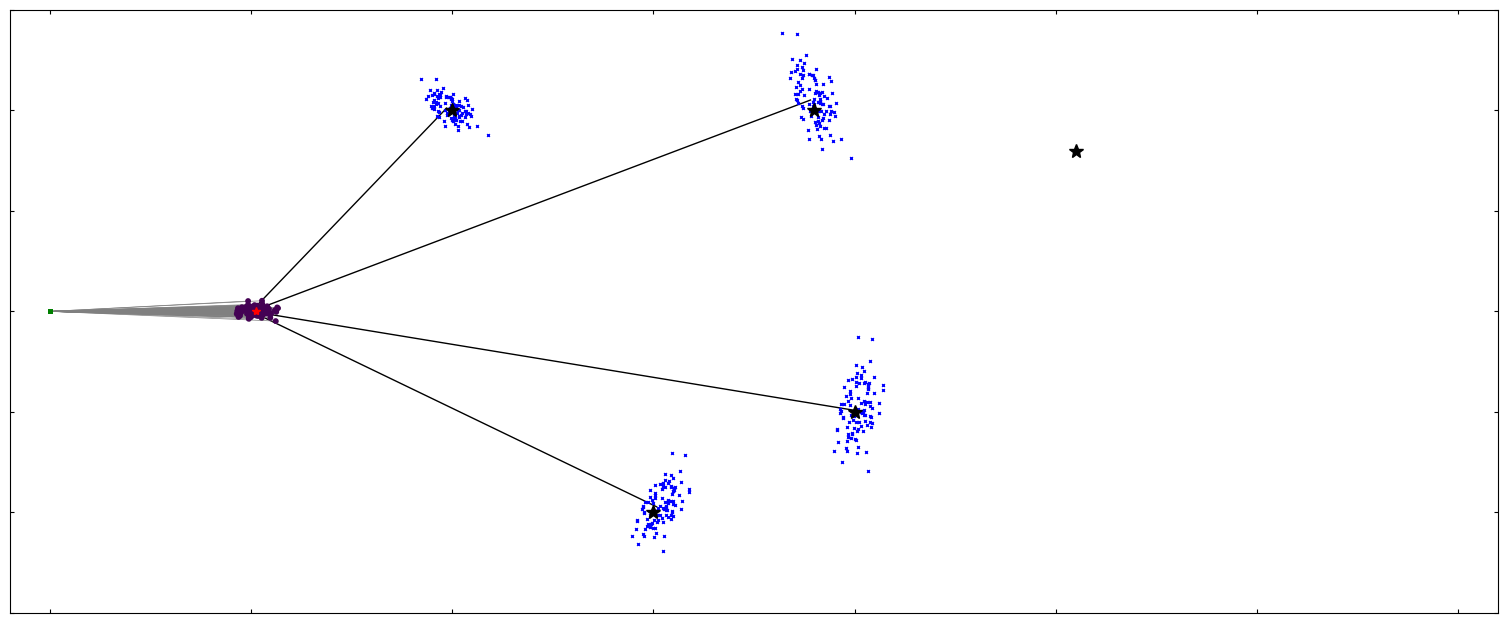
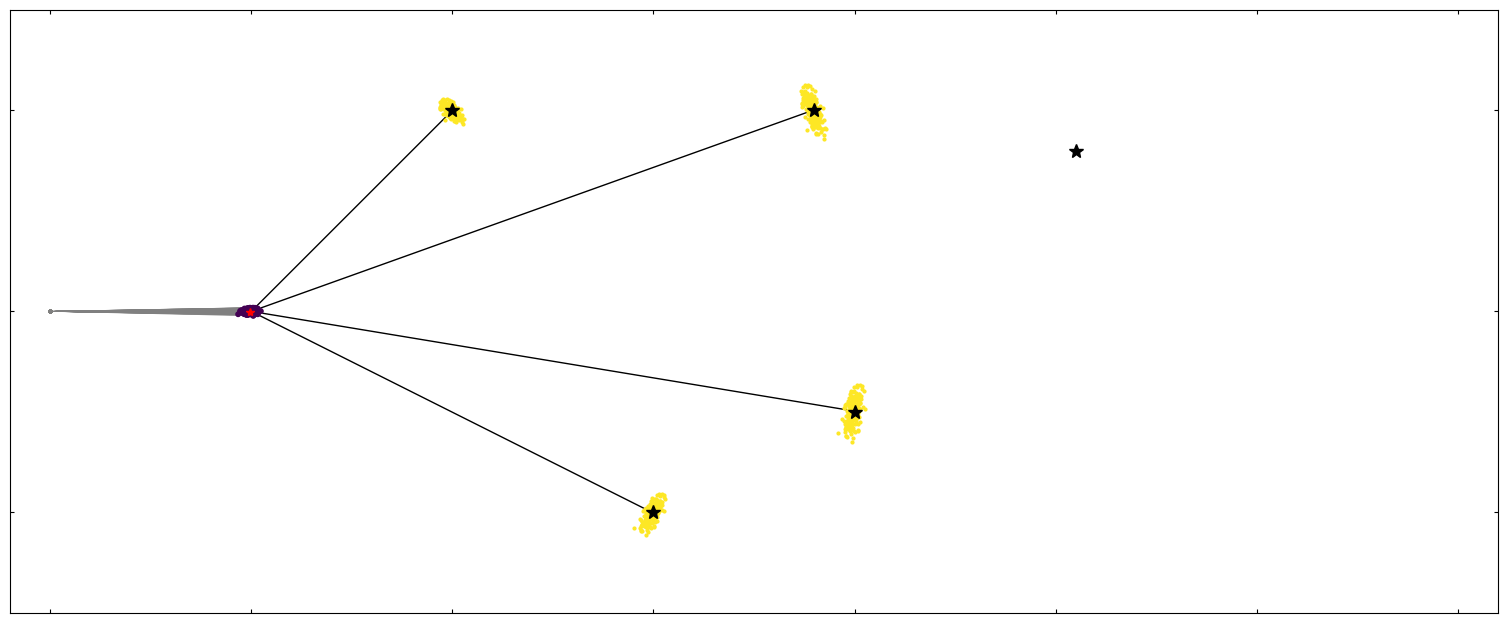
More stupid issues to fix

diff --git a/SLAM/FastSLAM1/fast_slam1_1_self.py b/SLAM/FastSLAM1/fast_slam1_1_self.py
@@ -18,13 +18,14 @@ from utils.angle import angle_mod
 
 # Fast SLAM covariance
 Q = np.diag([0.08, np.deg2rad(10.0)]) ** 2 #0 may cause issues with cholesky decomposition
-R = np.diag([0.2, np.deg2rad(10.0)]) ** 2 #Determine variance in input for different particles
-R = np.diag([0.05, np.deg2rad(2)]) ** 2 #Determine variance in input for different particles
+Q = np.diag([0.08, np.deg2rad(1.0)]) ** 2 #0 may cause issues with cholesky decomposition
+R = np.diag([0.02, np.deg2rad(1.0)]) ** 2 #Determine variance in input for different particles
+# R = np.diag([0.05, np.deg2rad(2)]) ** 2 #Determine variance in input for different particles
 
 
 
 #  Simulation parameter
-Q_SIM = np.diag([0.01, np.deg2rad(1.0)]) ** 2 #Need to have non-zero values for cholesky decomposition
+Q_SIM = np.diag([0.001, np.deg2rad(00.10)]) ** 2 #Need to have non-zero values for cholesky decomposition
 R_SIM = np.diag([0.01, np.deg2rad(1.0)]) ** 2 #Determine a variance in input that is used for all particles
 OFFSET_YAW_RATE_NOISE = 0.0
 
@@ -43,7 +44,7 @@ MAX_RANGE = 20.0  # maximum observation range
 M_DIST_TH = 2.0  # Threshold of Mahalanobis distance for data association.
 STATE_SIZE = 3  # State size [x,y,yaw]
 LM_SIZE = 2  # LM state size [x,y]
-N_PARTICLE = 100  # number of particle
+N_PARTICLE = 200  # number of particle
 NTH = N_PARTICLE / 1.2  # Number of particle for re-sampling
 
 MAX_ANGLE_RANGE = math.pi / 2.0  # maximum angle observation range
@@ -76,67 +77,69 @@ def fast_slam1(particles, u, z):
 
    
     
-    #First plot t=0 and will also plot resampled partilces
-    for i in range(N_PARTICLE):
-                plt.plot(particles[i].x, particles[i].y, ".g", markersize = 5,zorder = 5)
-    # print("Prev particles x", prev_particles[0].x)
-    # print("Prev particles y", prev_particles[0].y)
-    plt.xlim([-0.2, 7.2])
-    plt.ylim([-1.5, 1.5])
-    plt.gca().set_aspect('equal', adjustable='box')
-    plt.tick_params(axis='both', which='both', labelbottom=False, labelleft=False, direction='in', length=3)
-    plt.tick_params(axis='x', which='both', direction='in', length=3, top=True)
-    plt.tick_params(axis='y', which='both', direction='in', length=3, right=True)
-    plt.show()
+    # #First plot t=0 and will also plot resampled partilces
+    # for i in range(N_PARTICLE):
+    #             plt.plot(particles[i].x, particles[i].y, ".g", markersize = 5,zorder = 5)
+    # # print("Prev particles x", prev_particles[0].x)
+    # # print("Prev particles y", prev_particles[0].y)
+    # plt.xlim([-0.2, 7.2])
+    # plt.ylim([-1.5, 1.5])
+    # plt.gca().set_aspect('equal', adjustable='box')
+    # plt.gca().xaxis.set_major_locator(plt.MultipleLocator(1.0))  # Interval of 1.0 for x-axis
+    # plt.gca().yaxis.set_major_locator(plt.MultipleLocator(1.0))  # Interval of 1.0 for y-axis
+    # plt.tick_params(axis='both', which='both', labelbottom=False, labelleft=False, direction='in', length=3)
+    # plt.tick_params(axis='x', which='both', direction='in', length=3, top=True)
+    # plt.tick_params(axis='y', which='both', direction='in', length=3, right=True)
+    # plt.show()
 
     predicted_particles = predict_particles(particles, u)
+    pred_particles = copy.deepcopy(predicted_particles)
 
     # Plot propagation lines
     for i in range(N_PARTICLE):
         plt.plot(
             [prev_particles[i].x, predicted_particles[i].x],
             [prev_particles[i].y, predicted_particles[i].y],
-            "-o",color="grey", linewidth=0.5,markersize = 2,zorder=4
+            "-o",color="grey", linewidth=0.5,markersize = 2, zorder=4
         )
         # plt.plot(predicted_particles[i].x, predicted_particles[i].y, ".k", markersize=2)  # Predicted particles
     plt.xlim([-0.2, 7.2])
     plt.ylim([-1.5, 1.5])
     plt.gca().set_aspect('equal', adjustable='box')
+    plt.gca().xaxis.set_major_locator(plt.MultipleLocator(1.0))  # Interval of 1.0 for x-axis
+    plt.gca().yaxis.set_major_locator(plt.MultipleLocator(1.0))  # Interval of 1.0 for y-axis
     plt.tick_params(axis='both', which='both', labelbottom=False, labelleft=False, direction='in', length=3)
     plt.tick_params(axis='x', which='both', direction='in', length=3, top=True)
     plt.tick_params(axis='y', which='both', direction='in', length=3, right=True)
     plt.show()
 
     updated_particles = update_with_observation(predicted_particles, z)
+    up_particles = copy.deepcopy(updated_particles)
     
     #Plot land mark partilces of each particle
-    for i in range(N_PARTICLE):
-        plt.plot(updated_particles[i].lm[:, 0], updated_particles[i].lm[:, 1], "xb", markersize = 2, zorder = 3)
-    plt.xlim([-0.2, 7.2])
-    plt.ylim([-1.5, 1.5])
-    plt.gca().set_aspect('equal', adjustable='box')
-    plt.tick_params(axis='both', which='both', labelbottom=False, labelleft=False, direction='in', length=3)
-    plt.tick_params(axis='x', which='both', direction='in', length=3, top=True)
-    plt.tick_params(axis='y', which='both', direction='in', length=3, right=True)
+    plot_landmarks_with_weights(updated_particles, overlay=True)
     plt.show()
+    
+   
 
     # Plot original particles with color intensity based on weights
-    plot_particles_with_weights(updated_particles, z, title="Original Particles Before Resampling", overlay=True)
+    plot_particles_with_weights(updated_particles, overlay=True)
     plt.xlim([-0.2, 7.2])
     plt.ylim([-1.5, 1.5])
     plt.gca().set_aspect('equal', adjustable='box')
+    plt.gca().xaxis.set_major_locator(plt.MultipleLocator(1.0))  # Interval of 1.0 for x-axis
+    plt.gca().yaxis.set_major_locator(plt.MultipleLocator(1.0))  # Interval of 1.0 for y-axis
     plt.tick_params(axis='both', which='both', labelbottom=False, labelleft=False, direction='in', length=3)
     plt.tick_params(axis='x', which='both', direction='in', length=3, top=True)
     plt.tick_params(axis='y', which='both', direction='in', length=3, right=True)
     plt.show()
     
+    resampled_particles = resampling(updated_particles)
     
 
-    resampled_particles = resampling(updated_particles)
+    return pred_particles, up_particles, resampled_particles
 
-    return predicted_particles, resampled_particles
-
-def plot_particles_with_weights(particles, gps_coordinate, title, overlay=False):
+def plot_particles_with_weights(particles, overlay=False):
     """
     Plot particles, with color intensity corresponding to the weight.
     Optionally overlay particles on an existing plot.
@@ -171,6 +174,41 @@ def plot_particles_with_weights(particles, gps_coordinate, title, overlay=False)
     if not overlay:
         plt.show()
         
+def plot_landmarks_with_weights(particles, overlay=False):
+    """
+    Plot landmarks from particles as lines, with color intensity corresponding to particle weight.
+    Optionally overlay landmarks on an existing plot.
+    
+    Args:
+        particles: List of particle objects, where each has landmarks (lm) and a weight (w).
+        overlay: If True, overlay the plot on an existing figure.
+    """
+    if not overlay:
+        plt.figure()
+
+    # Normalize weights to map to a color scale
+    weights = [particle.w for particle in particles]
+    norm_weights = np.array(weights) / max(weights)
+
+    # Iterate through particles to plot landmarks as lines
+    for i, particle in enumerate(particles):
+        lm_x = particle.lm[:, 0]  # Landmark x-coordinates
+        lm_y = particle.lm[:, 1]  # Landmark y-coordinates
+        plt.plot(lm_x, lm_y, ".", markersize = 4, label=f"Particle {i}", color=plt.cm.viridis(norm_weights[i]),  zorder=3)
+
+    # Set plot appearance
+    plt.xlim([-0.2, 7.2])
+    plt.ylim([-1.5, 1.5])
+    plt.gca().set_aspect('equal', adjustable='box')
+    plt.gca().xaxis.set_major_locator(plt.MultipleLocator(1.0))
+    plt.gca().yaxis.set_major_locator(plt.MultipleLocator(1.0))
+    plt.tick_params(axis='both', which='both', labelbottom=False, labelleft=False, direction='in', length=3)
+    plt.tick_params(axis='x', which='both', direction='in', length=3, top=True)
+    plt.tick_params(axis='y', which='both', direction='in', length=3, right=True)
+
+    if not overlay:
+        plt.show()
+        
 def plot_observation_line(x, z, ax=None, linewidth=1.0, color="k"):
     for i in range(z.shape[1]):  # Iterate over columns since z is now (3, N)
         # Extract range and angle from the observation
@@ -190,6 +228,11 @@ def plot_observation_line(x, z, ax=None, linewidth=1.0, color="k"):
     plt.xlim([-0.2, 7.2])
     plt.ylim([-1.5, 1.5])
     plt.gca().set_aspect('equal', adjustable='box')
+    plt.gca().xaxis.set_major_locator(plt.MultipleLocator(1.0))  # Interval of 1.0 for x-axis
+    plt.gca().yaxis.set_major_locator(plt.MultipleLocator(1.0))  # Interval of 1.0 for y-axis
+    plt.tick_params(axis='both', which='both', labelbottom=False, labelleft=False, direction='in', length=3)
+    plt.tick_params(axis='x', which='both', direction='in', length=3, top=True)
+    plt.tick_params(axis='y', which='both', direction='in', length=3, right=True)
     # plt.show()
 
 def normalize_weight(particles):
@@ -233,8 +276,6 @@ def predict_particles(particles, u):
         particles[i].x = px[0, 0]
         particles[i].y = px[1, 0]
         particles[i].yaw = px[2, 0]
-
-        particles[i].history.append((particles[i].x, particles[i].y, particles[i].yaw))
 
     return particles
 
@@ -380,7 +421,7 @@ def resampling(particles):
     print("Eff Threshold:", NTH)
     print(f"Effective particle number (n_eff): {n_eff}")
 
-    if n_eff < NTH:  # resampling
+    if n_eff < NTH or True:  # resampling
         print("Resampling")
         w_cum = np.cumsum(pw)
         base = np.cumsum(pw * 0.0 + 1 / N_PARTICLE) - 1 / N_PARTICLE
@@ -420,35 +461,6 @@ def calc_input(time):
 
     return u
 
-
-# def observation(x_true, xd, u, rfid):
-#     # calc true state
-#     x_true = motion_model(x_true, u)
-
-#     # add noise to range observation
-#     z = np.zeros((3, 0))
-#     for i in range(len(rfid[:, 0])):
-
-#         dx = rfid[i, 0] - x_true[0, 0]
-#         dy = rfid[i, 1] - x_true[1, 0]
-#         d = math.hypot(dx, dy)
-#         angle = pi_2_pi(math.atan2(dy, dx) - x_true[2, 0])
-#         if d <= MAX_RANGE:
-#             dn = d + np.random.randn() * Q_SIM[0, 0] ** 0.5  # add noise
-#             angle_with_noize = angle + np.random.randn() * Q_SIM[
-#                 1, 1] ** 0.5  # add noise
-#             zi = np.array([dn, pi_2_pi(angle_with_noize), i]).reshape(3, 1)
-#             z = np.hstack((z, zi))
-
-#     # add noise to input
-#     ud1 = u[0, 0] + np.random.randn() * R_SIM[0, 0] ** 0.5
-#     ud2 = u[1, 0] + np.random.randn() * R_SIM[
-#         1, 1] ** 0.5 + OFFSET_YAW_RATE_NOISE
-#     ud = np.array([ud1, ud2]).reshape(2, 1)
-
-#     xd = motion_model(xd, ud)
-
-#     return x_true, z, xd, ud
 
 def observation(x_true, xd, u, rfid):
     # Calculate the true state
@@ -551,7 +563,7 @@ def main():
     #             plt.savefig(f"SLAM/FastSLAM1/Plots/FastSLAM1_{save_fig_number}.png", bbox_inches="tight")  
     #             save_fig_number += 1  # Increment the counter for the next iteration
                 
-    hist_particles = particles
+    
 
 
     while SIM_TIME >= time:
@@ -559,14 +571,14 @@ def main():
         u = calc_input(time)
         # print(u)
         
-        hist_x_est_prev = copy.deepcopy(x_true)
+        hist_particles = copy.deepcopy(particles)
 
         x_true, z, x_dr, ud = observation(x_true, x_dr, u, rfid)
         
         plot_observation_line(x_true, z)
 
         plt.plot(rfid[:, 0], rfid[:, 1], "*k", markersize = 10, zorder = 11)
-        predicted_particles, particles = fast_slam1(particles, ud, z)
+        predicted_particles, updated_particles, particles = fast_slam1(particles, ud, z)
 
         x_est = calc_final_state(particles)
         
@@ -576,15 +588,17 @@ def main():
             save_fig_number += 1  # Increment the counter for the next iteration
             
         # Errase observation lines and landmark particle for reduced clutter
-        # plot_observation_line(x_true, z, ax=None, linewidth=2.0, color="white")
-        # for i in range(N_PARTICLE):
-        #     plt.plot(particles[i].lm[:, 0], particles[i].lm[:, 1], "x", color="white", markersize = 5, zorder = 3)
-        # plt.xlim([-0.2, 7.2])
-        # plt.ylim([-1.5, 1.5])
-        # plt.gca().set_aspect('equal', adjustable='box')
-        # plt.tick_params(axis='both', which='both', labelbottom=False, labelleft=False, direction='in', length=3)
-        # plt.tick_params(axis='x', which='both', direction='in', length=3, top=True)
-        # plt.tick_params(axis='y', which='both', direction='in', length=3, right=True)
+        plot_observation_line(x_true, z, ax=None, linewidth=2.0, color="white")
+        for i in range(N_PARTICLE):
+            plt.plot(updated_particles[i].lm[:, 0], updated_particles[i].lm[:, 1], ".", color="white", markersize = 5, zorder = 3) #Particles gets shifted when resampled
+        plt.xlim([-0.2, 7.2])
+        plt.ylim([-1.5, 1.5])
+        plt.gca().set_aspect('equal', adjustable='box')
+        plt.gca().xaxis.set_major_locator(plt.MultipleLocator(1.0))  # Interval of 1.0 for x-axis
+        plt.gca().yaxis.set_major_locator(plt.MultipleLocator(1.0))  # Interval of 1.0 for y-axis
+        plt.tick_params(axis='both', which='both', labelbottom=False, labelleft=False, direction='in', length=3)
+        plt.tick_params(axis='x', which='both', direction='in', length=3, top=True)
+        plt.tick_params(axis='y', which='both', direction='in', length=3, right=True)
 
         x_state = x_est[0: STATE_SIZE]
 

diff --git a/SLAM/FastSLAM2/Fast_slam2_self.py b/SLAM/FastSLAM2/Fast_slam2_self.py
@@ -76,12 +76,14 @@ def fast_slam2(particles, u, z):
 
     #First plot t=0 and will also plot resampled partilces
     for i in range(N_PARTICLE):
-                plt.plot(particles[i].x, particles[i].y, ".g", markersize = 5)
+                plt.plot(particles[i].x, particles[i].y, ".g", markersize = 5, zorder = 5)
     # print("Prev particles x", prev_particles[0].x)
     # print("Prev particles y", prev_particles[0].y)
     plt.xlim([-0.2, 7.2])
     plt.ylim([-1.5, 1.5])
     plt.gca().set_aspect('equal', adjustable='box')
+    plt.gca().xaxis.set_major_locator(plt.MultipleLocator(1.0))  # Interval of 1.0 for x-axis
+    plt.gca().yaxis.set_major_locator(plt.MultipleLocator(1.0))  # Interval of 1.0 for y-axis
     plt.tick_params(axis='both', which='both', labelbottom=False, labelleft=False, direction='in', length=3)
     plt.tick_params(axis='x', which='both', direction='in', length=3, top=True)
     plt.tick_params(axis='y', which='both', direction='in', length=3, right=True)
@@ -94,12 +96,14 @@ def fast_slam2(particles, u, z):
         plt.plot(
             [prev_particles[i].x, predicted_particles[i].x],
             [prev_particles[i].y, predicted_particles[i].y],
-            "-o",color="grey", linewidth=0.5,markersize = 2,zorder=1  # Blue line for propagation
+            "-o",color="grey", linewidth=0.5,markersize = 2, zorder=4  # Blue line for propagation
         )
         # plt.plot(predicted_particles[i].x, predicted_particles[i].y, ".k", markersize=2)  # Predicted particles
     plt.xlim([-0.2, 7.2])
     plt.ylim([-1.5, 1.5])
     plt.gca().set_aspect('equal', adjustable='box')
+    plt.gca().xaxis.set_major_locator(plt.MultipleLocator(1.0))  # Interval of 1.0 for x-axis
+    plt.gca().yaxis.set_major_locator(plt.MultipleLocator(1.0))  # Interval of 1.0 for y-axis
     plt.tick_params(axis='both', which='both', labelbottom=False, labelleft=False, direction='in', length=3)
     plt.tick_params(axis='x', which='both', direction='in', length=3, top=True)
     plt.tick_params(axis='y', which='both', direction='in', length=3, right=True)
@@ -109,10 +113,12 @@ def fast_slam2(particles, u, z):
     
     #Plot land mark partilces of each particle
     for i in range(N_PARTICLE):
-        plt.plot(updated_particles[i].lm[:, 0], updated_particles[i].lm[:, 1], "xb", markersize = 2, zorder = 1)
+        plt.plot(updated_particles[i].lm[:, 0], updated_particles[i].lm[:, 1], "xb", markersize = 2, zorder = 3)
     plt.xlim([-0.2, 7.2])
     plt.ylim([-1.5, 1.5])
     plt.gca().set_aspect('equal', adjustable='box')
+    plt.gca().xaxis.set_major_locator(plt.MultipleLocator(1.0))  # Interval of 1.0 for x-axis
+    plt.gca().yaxis.set_major_locator(plt.MultipleLocator(1.0))  # Interval of 1.0 for y-axis
     plt.tick_params(axis='both', which='both', labelbottom=False, labelleft=False, direction='in', length=3)
     plt.tick_params(axis='x', which='both', direction='in', length=3, top=True)
     plt.tick_params(axis='y', which='both', direction='in', length=3, right=True)
@@ -123,6 +129,8 @@ def fast_slam2(particles, u, z):
     plt.xlim([-0.2, 7.2])
     plt.ylim([-1.5, 1.5])
     plt.gca().set_aspect('equal', adjustable='box')
+    plt.gca().xaxis.set_major_locator(plt.MultipleLocator(1.0))  # Interval of 1.0 for x-axis
+    plt.gca().yaxis.set_major_locator(plt.MultipleLocator(1.0))  # Interval of 1.0 for y-axis
     plt.tick_params(axis='both', which='both', labelbottom=False, labelleft=False, direction='in', length=3)
     plt.tick_params(axis='x', which='both', direction='in', length=3, top=True)
     plt.tick_params(axis='y', which='both', direction='in', length=3, right=True)
@@ -149,7 +157,7 @@ def plot_particles_with_weights(particles, gps_coordinate, title, overlay=False)
         plt.figure()
 
     # Scatter plot of particles, color-coded by normalized weight
-    scatter = plt.scatter(x_vals, y_vals, c=norm_weights, cmap='viridis', s=10, label='Particles') #cmap='viridis'
+    scatter = plt.scatter(x_vals, y_vals, c=norm_weights, cmap='viridis', s=10, label='Particles', zorder =5) #cmap='viridis'
 
     # Plot the GPS coordinate
     # plt.scatter(gps_coordinate[0], gps_coordinate[1], c='red', s=50, label='GPS Measurement', zorder = 10, marker = '*')
@@ -187,6 +195,11 @@ def plot_observation_line(x, z, ax=None, linewidth=1.0, color="k"):
     plt.xlim([-0.2, 7.2])
     plt.ylim([-1.5, 1.5])
     plt.gca().set_aspect('equal', adjustable='box')
+    plt.gca().xaxis.set_major_locator(plt.MultipleLocator(1.0))  # Interval of 1.0 for x-axis
+    plt.gca().yaxis.set_major_locator(plt.MultipleLocator(1.0))  # Interval of 1.0 for y-axis
+    plt.tick_params(axis='both', which='both', labelbottom=False, labelleft=False, direction='in', length=3)
+    plt.tick_params(axis='x', which='both', direction='in', length=3, top=True)
+    plt.tick_params(axis='y', which='both', direction='in', length=3, right=True)
     # plt.show()
 
 def normalize_weight(particles):
@@ -396,6 +409,7 @@ def resampling(particles):
     print(f"Effective particle number (n_eff): {n_eff}")
 
     if n_eff < NTH:  # resampling
+        print("Resampling")
         w_cum = np.cumsum(pw)
         base = np.cumsum(pw * 0.0 + 1 / N_PARTICLE) - 1 / N_PARTICLE
         resample_id = base + np.random.rand(base.shape[0]) / N_PARTICLE
@@ -578,6 +592,16 @@ def main():
         if save_fig_number != 8:
             plt.savefig(f"SLAM/FastSLAM2/Plots/FastSLAM2_{save_fig_number}.png", bbox_inches="tight")  
             save_fig_number += 1  # Increment the counter for the next iteration
+            
+        plot_observation_line(x_true, z, ax=None, linewidth=2.0, color="white")
+        # for i in range(N_PARTICLE):
+        #     plt.plot(particles[i].lm[:, 0], particles[i].lm[:, 1], "x", color="white", markersize = 5, zorder = 3)
+        # plt.xlim([-0.2, 7.2])
+        # plt.ylim([-1.5, 1.5])
+        # plt.gca().set_aspect('equal', adjustable='box')
+        # plt.tick_params(axis='both', which='both', labelbottom=False, labelleft=False, direction='in', length=3)
+        # plt.tick_params(axis='x', which='both', direction='in', length=3, top=True)
+        # plt.tick_params(axis='y', which='both', direction='in', length=3, right=True)
 
         x_state = x_est[0: STATE_SIZE]
 
